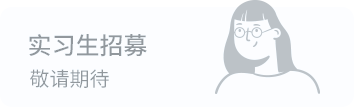
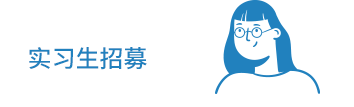
change

diff --git a/themes/hugo-digital-garden-theme/layouts/index.html b/themes/hugo-digital-garden-theme/layouts/index.html
@@ -218,28 +218,47 @@ padding-bottom: 2rem"
 	</div>
 	<div class="row">
 		{{ range $section.Pages.ByWeight }}
+		{{ $img := .Resources.GetMatch "img.png" }}
 		<div class="col-12 col-sm-6 col-md-4 mb-4">
-			<div class="learning-bg-white" style="position: relative;">
-				<div class="d-flex justify-content-between">
-					{{ if .Params.title }}
-					<div class="learning-title">{{ .Params.title }}</div>
-					{{ end  }}
-					{{ $img := .Resources.GetMatch "*img*" }}
-					{{ with $img }}
-					<img
-							src="{{.RelPermalink }}"
-							style="max-width: 100%; height: auto;"
-					/>
-					{{ end }}
-				</div>
+			<div
+					class="position-relative bg-all beginner-bg"
+					style="
+								{{ with $img }}
+								background-image: url('{{ .RelPermalink }}');
+								{{ end }}
+							"
+			>
+				{{ if .Params.title }}
+				<div class="beginner-title">{{ .Params.title }}</div>
+				{{ end }}
 				{{ if .Params.summary }}
-				<div class="learning-summary">{{ .Params.summary }}</div>
-				{{ end  }}
+				<div class="beginner-desc">{{ .Params.summary }}</div>
+				{{ end }}
+				<!--1即将上线 2正在进行 3报名中-->
+				{{ if eq site.Language.Lang "cn" }}
+				{{ if eq .Params.schedule 1 }}
+				<img src="{{ "/images/beginner_0.png" | relURL }}" width=98>
+				{{ else if eq .Params.schedule 2 }}
+				<img src="{{ "/images/beginner_1.png" | relURL }}" width=98>
+				{{ else if eq .Params.schedule 3 }}
+				<img src="{{ "/images/beginner_2.png" | relURL }}" width=98>
+				{{ end }}
+				{{ else }}
+				{{ if eq .Params.schedule 1 }}
+				<img src="{{ "/images/beginner_0_en.png" | relURL }}" width=98>
+				{{ else if eq .Params.schedule 2 }}
+				<img src="{{ "/images/beginner_1_en.png" | relURL }}" width=98>
+				{{ else if eq .Params.schedule 3 }}
+				<img src="{{ "/images/beginner_2_en.png" | relURL }}" width=98>
+				{{ end }}
+				{{ end }}
 
 				{{ if .Params.Website }}
 				<a href="{{ .Params.Website }}" class="stretched-link" target="_blank"></a>
 				{{ else }}
+				{{ if ne .Params.schedule 1 }}
 				<a href="{{ .RelPermalink }}" class="stretched-link"></a>
+				{{ end }}
 				{{ end  }}
 			</div>
 		</div>

diff --git a/content/introduce/index.cn.md b/content/introduce/index.cn.md
@@ -2,6 +2,7 @@
 title: "让每个开发者都能参与"
 slides:
   - title: "让每个开发者都能参与"
+    title_style: "padding-top: 4rem;"
     sub: "处理器验证"
     sub_icon: "/images/RISC-V.png"
     description: "“万众一芯”是一个开源开放的芯片验证平台，致力于用 AI 和软件的方式重构芯片验证。"

diff --git a/content/opensource_tools/_index.cn.md b/content/opensource_tools/_index.cn.md
@@ -1,4 +1,4 @@
 ---
 title: '开源工具'
-summary: '通过任务，逐步加深对RISC-V指令集架构的理解'
+summary: '提供完整开源工具链，支持软件化与智能化验证'
 ---

diff --git a/content/recruit/intern/_index.cn.md b/content/recruit/intern/_index.cn.md
@@ -1,5 +1,6 @@
 ---
 title: '实习生招募'
 weight: 2
-open: false
+open: true
+Website: 'https://mp.weixin.qq.com/s/P8Lw5AljKdfBKh_CsWLQXQ'
 ---

diff --git a/content/recruit/intern/_index.en.md b/content/recruit/intern/_index.en.md
@@ -2,4 +2,6 @@
 title: 'Intern?'
 is_page: false
 weight: 3
+open: true
+Website: 'https://mp.weixin.qq.com/s/P8Lw5AljKdfBKh_CsWLQXQ'
 ---
